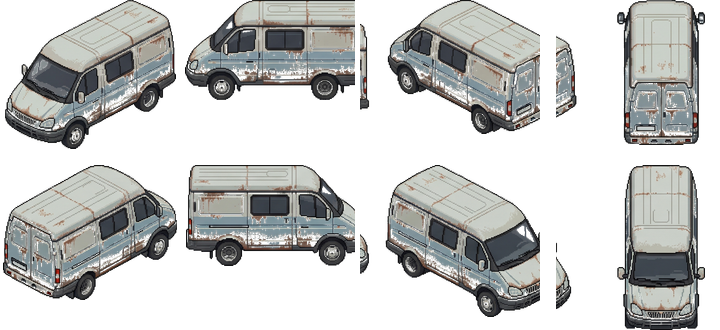
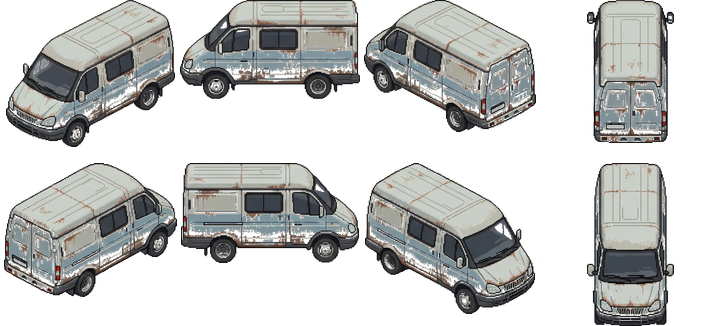
Fix car floating, steering inversion and frame extraction
- Anchors moved from content-bottom to wheelbase midpoint (auto wheel detection): cars no longer float above ground, approach feels right (gap = player radius)
- Shadow: capsule matching car shape instead of ellipse
- Steering A/D was inverted
- process_turntable: connected-component extraction - neighbor fragments no longer captured and overflowing cars not cut; uniform scale kept
- Unit tests: steering direction and reverse drive

diff --git a/tests/isoVehicles.test.js b/tests/isoVehicles.test.js
@@ -143,7 +143,7 @@ describe("iso-машины: вождение", () => {
     car.fuel = 40;
     const player = { x: 0, y: 0 };
     const combat = combatStub();
-    const keys = { KeyW: true, KeyA: true };
+    const keys = { KeyW: true, KeyD: true };
     const dt = 1 / 60;
     let prev = carCenter(car);
     let maxJump = 0;
@@ -163,6 +163,44 @@ describe("iso-машины: вождение", () => {
     // шаг за кадр — это движение (≤ v·dt + запас), а не скачок AABB (~1,3 м)
     expect(maxJump).toBeLessThan(0.8);
     expect(carDims(car).w).toBe(CAR_WID);
+  });
+
+  it("руль: A влево (курс уменьшается), D вправо (курс растёт)", () => {
+    const city = emptyCity();
+    city.cars.push({ x: 40, y: 40, axis: "x", wreck: false });
+    initVehicles(city);
+    const car = city.cars[0];
+    car.fuel = 40;
+    const player = { x: 0, y: 0 };
+    const combat = combatStub();
+    const run = (keys, frames) => {
+      for (let i = 0; i < frames; i++)
+        updateVehicle(city, car, keys, player, combat, 1 / 60);
+    };
+    // разгон вперёд, затем A
+    run({ KeyW: true }, 60);
+    car.heading = 0;
+    run({ KeyW: true, KeyA: true }, 45);
+    expect(car.heading).toBeLessThan(0); // влево (к северу)
+    // D
+    car.heading = 0;
+    run({ KeyW: true, KeyD: true }, 45);
+    expect(car.heading).toBeGreaterThan(0); // вправо (к югу)
+  });
+
+  it("задний ход: S разгоняет назад до ~40% максимума", () => {
+    const city = emptyCity();
+    city.cars.push({ x: 60, y: 60, axis: "x", wreck: false });
+    initVehicles(city);
+    const car = city.cars[0];
+    car.fuel = 40;
+    const player = { x: 0, y: 0 };
+    const combat = combatStub();
+    const x0 = car.x;
+    for (let i = 0; i < 180; i++)
+      updateVehicle(city, car, { KeyS: true }, player, combat, 1 / 60);
+    expect(car.v).toBeLessThan(0);
+    expect(car.x).toBeLessThan(x0); // уехала назад (курс 0 — на запад)
   });
 
   it("нос машины упирается в препятствие, а не входит в него", () => {

diff --git a/src/iso/render/renderer.js b/src/iso/render/renderer.js
@@ -645,7 +645,7 @@ function drawCar(ctx, car, i, toX, toY, zoom) {
   const sx = toX(p.x),
     sy = toY(p.y);
   const heading = car.heading ?? (car.axis === "x" ? 0 : Math.PI / 2);
-  // тень под полным курсом: T = [[cos, −2sin],[0.5sin, cos]] — поворот в плоскости земли
+  // тень капсулой по форме машины: T = [[cos, −2sin],[0.5sin, cos]] — поворот в плоскости земли
   const c = Math.cos(heading),
     s = Math.sin(heading);
   ctx.save();
@@ -653,9 +653,19 @@ function drawCar(ctx, car, i, toX, toY, zoom) {
   ctx.transform(c, 0.5 * s, -2 * s, c, 0, 0);
   ctx.globalAlpha = 0.35;
   ctx.fillStyle = "#10141a";
-  ctx.beginPath();
-  ctx.ellipse(0, 0, 72 * zoom, 27 * zoom, 0, 0, 7);
-  ctx.fill();
+  {
+    const L = 150 * zoom,
+      Wd = 58 * zoom,
+      r = Wd / 2;
+    ctx.beginPath();
+    ctx.moveTo(-L / 2 + r, -Wd / 2);
+    ctx.lineTo(L / 2 - r, -Wd / 2);
+    ctx.arc(L / 2 - r, 0, r, -Math.PI / 2, Math.PI / 2);
+    ctx.lineTo(-L / 2 + r, Wd / 2);
+    ctx.arc(-L / 2 + r, 0, r, Math.PI / 2, Math.PI * 1.5);
+    ctx.closePath();
+    ctx.fill();
+  }
   ctx.restore();
   // кадр турнтейбла (атлас по типу машины; остов — свой атлас)
   const kind = car.wreck ? "wreck" : car.kind || "sedan";

diff --git a/src/iso/systems/vehicles.js b/src/iso/systems/vehicles.js
@@ -83,10 +83,11 @@ export function exitCar(city, state, player) {
 }
 
 export function updateVehicle(city, car, keys, player, combat, dt, rng) {
-  // газ/тормоз/руль
+  // газ/тормоз/руль (A — влево, D — вправо; при заднем ходу знак скорости сам
+  // переворачивает отклик, как у настоящей машины)
   const fwd = keys.KeyW ? 1 : 0,
     back = keys.KeyS ? 1 : 0;
-  const steer = (keys.KeyA ? 1 : 0) - (keys.KeyD ? 1 : 0);
+  const steer = (keys.KeyD ? 1 : 0) - (keys.KeyA ? 1 : 0);
   if (car.fuel <= 0) {
     car.v *= Math.max(0, 1 - DRAG * dt * 3);
   } else {

diff --git a/REFACTORING_PLAN.md b/REFACTORING_PLAN.md
@@ -324,7 +324,7 @@ npm run test:e2e
 - [ ] Сюжет с драмой (после консультации Qwen).
 - [ ] База с выжившими: строительство, жители, развитие (после консультации Qwen).
 - [ ] Интерьеры, итерация 3 (по `docs/interiors-qwen.md`): зомби заходят внутрь, pathfinding через двери, лестницы для зомби, шум привлекает.
-- [x] **Машины: стабилизация и турнтейбл для всех типов** (18.11.2026). Исправлено: якоря турнтейбл-кадров считались от края АТЛАСА вместо края кадра — все курсы, кроме кадра 0, рисовались в стороне от логической позиции, поэтому в «видимую» машину нельзя было сесть; `nearestCar` мог вернуть не ближайшую машину (гистерезис `bd+1,5`); зонды столкновений при повороте смотрели на 0,9 м вместо полудлины 2,2 м; AABB машины теперь следует за доминирующей осью курса с сохранением центра (без телепорта); высадка ищет свободную точку кольцом до 6 м, если борта заняты; после загрузки сейва сетка коллизий перестраивается (машины могли переехать); посадка предпочитает исправную машину рядом с остовом. `process_turntable.mjs`: отступ 4 px от краёв ячейки (линии сетки Gemini не попадают в кадры) и ЕДИНЫЙ масштаб по самому широкому кадру (перед/зад больше не раздуты). Турнтейбл-атласы теперь для sedan/van/wreck (`car.kind`, детерминированно по индексу — rng генерации не тронут, сейвы v2 совместимы); направления кадров по атласам проверены скриншот-стендом (8 курсов × 3 типа). Юнит-тесты `tests/isoVehicles.test.js` (10 шт).
+- [x] **Машины: стабилизация и турнтейбл для всех типов** (18.11.2026). Исправлено: якоря турнтейбл-кадров считались от края АТЛАСА вместо края кадра — все курсы, кроме кадра 0, рисовались в стороне от логической позиции, поэтому в «видимую» машину нельзя было сесть; якорь перенесён с низа bbox в середину колёсной базы (детектор колёс по тёмным кластерам) — машина больше не «висит в воздухе»; тень-эллипс заменена капсулой по форме машины (T-матрица по курсу); `nearestCar` мог вернуть не ближайшую машину (гистерезис `bd+1,5`); зонды столкновений при повороте смотрели на 0,9 м вместо полудлины 2,2 м; AABB машины следует за доминирующей осью курса с сохранением центра; высадка ищет свободную точку кольцом до 6 м; после загрузки сейва сетка коллизий перестраивается; посадка предпочитает исправную машину рядом с остовом; руль был инвертирован (A/D перепутаны). `process_turntable.mjs`: извлечение по СВЯЗНЫМ КОМПОНЕНТАМ (машина, переползающая через границу ячейки, больше не захватывает соседа и не обрезается), отступ 4 px (линии сетки), ЕДИНЫЙ масштаб по самому широкому кадру, якоря по колёсам. Турнтейбл-атласы для sedan/van/wreck (`car.kind`, детерминированно по индексу — rng не тронут, сейвы v2 совместимы); направления кадров проверены скриншот-стендом (8 курсов × 3 типа). Юнит-тесты `tests/isoVehicles.test.js` (12 шт, включая направление руля и реверс).
 - [ ] Машины: багажник (T); Blender low-poly турнтейбл 16–32 направления (по `docs/vehicles-qwen.md`); у седана атлас неполный (дубли ~100°/190°, нет чистого 135°) — перегенерировать или закрыть Blender-пайплайном.
 - [ ] Факел как источник света (предмет уже есть; эффект света при ношении).
 - [ ] Анимация ходьбы актёров (2+ кадра) и турнтейбл-направления для персонажа.
